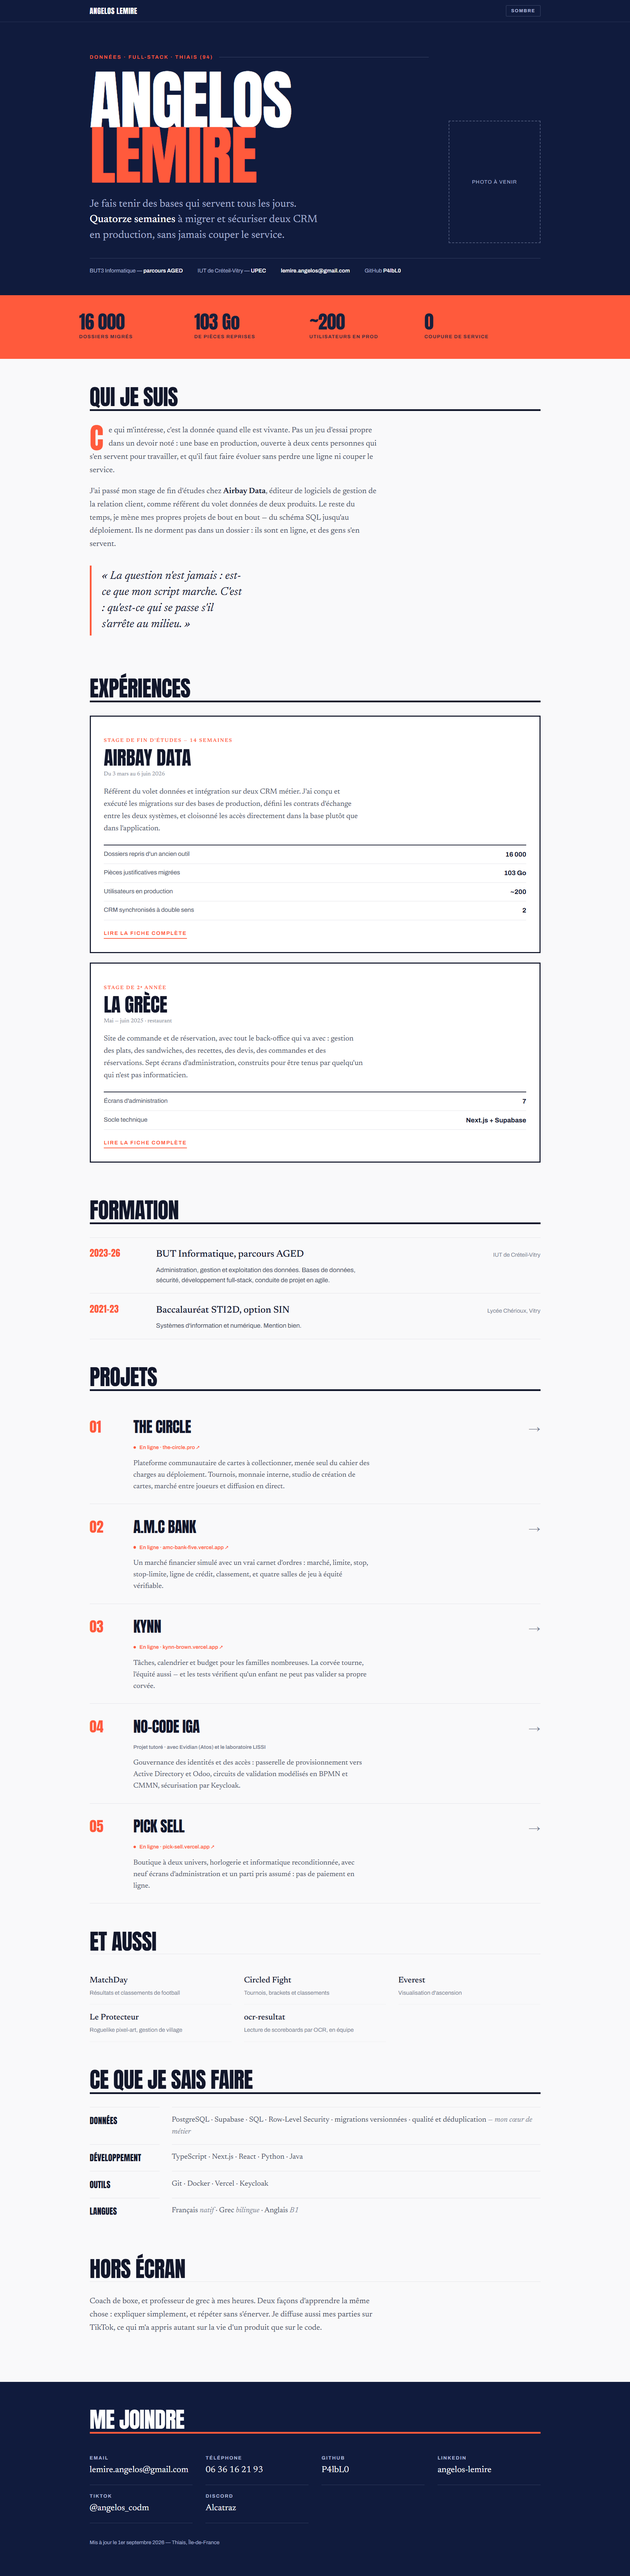
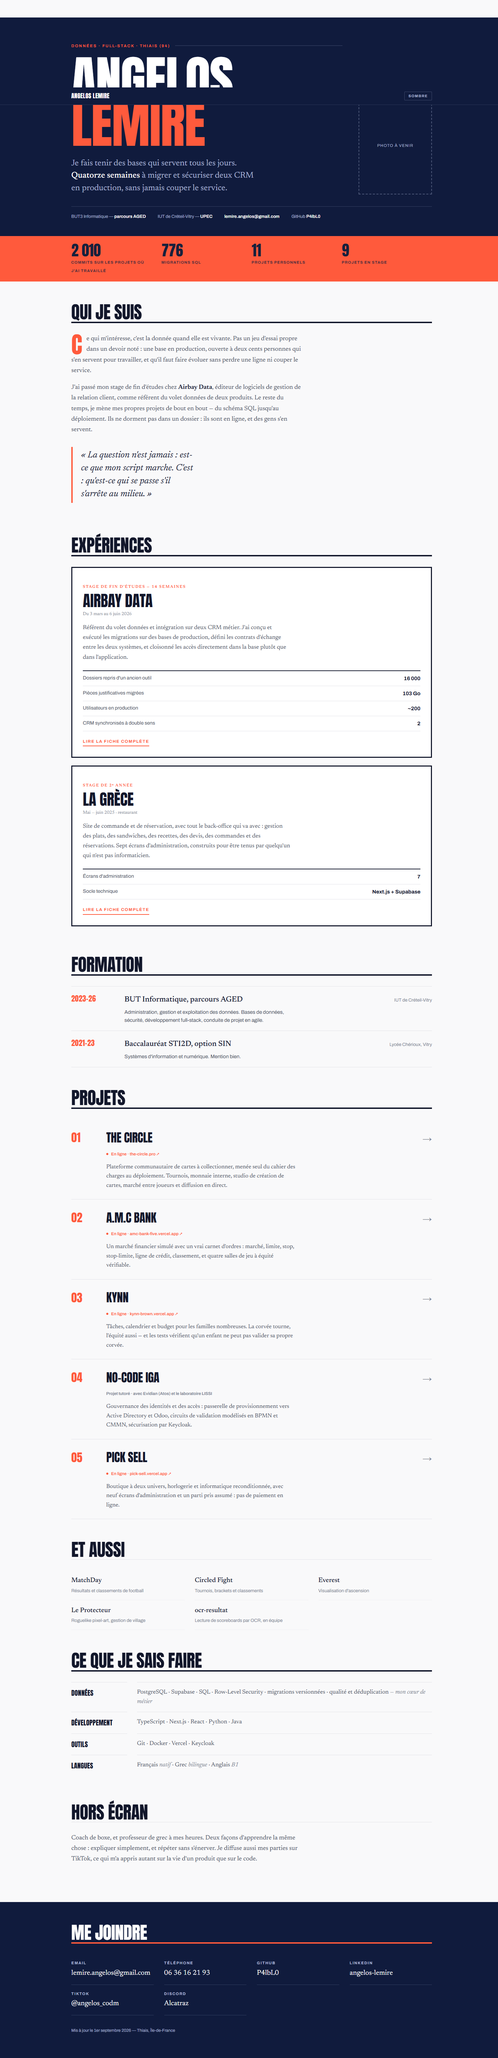
feat(accueil): le bilan couvre aussi le stage et les SAE
Le compte ne portait que sur Desktop/Projet. Les projets de stage et le
dossier SAE-IAM en etaient absents.

- 2 010 commits (1 173 personnels + 837 en stage et SAE) et 776 migrations
  SQL (310 + 466), releves depot par depot
- doublons ecartes du compte : ES-CRM - Copie, ES-CRM - Copie (2), alumnaiOG
- deux perimetres nommes : 11 projets personnels, 9 projets en stage
- le libelle dit "commits sur les projets ou j'ai travaille" et non
  "commits pousses" : le perimetre choisi inclut des commits signes de
  collegues, le chiffre reste vrai avec ce libelle
- methode de calcul et perimetre documentes dans content.ts et dans
  docs/CONTEXTE-SESSION.md, pour qu'ils ne soient pas "corriges" par erreur

diff --git a/lib/content.ts b/lib/content.ts
@@ -48,15 +48,25 @@ export const profil = {
   // La bande colorée sous la couverture : le bilan de TOUT le travail, pas
   // celui d'un projet en particulier (les chiffres du stage sont sur sa fiche).
   //
-  // Comment les remettre à jour, depuis Desktop/Projet :
-  //   commits    → git -C <dépôt> log --format='%an' | grep -ci p4lbl0, sur chaque dépôt
-  //   migrations → find <dépôt> -name '*.sql' | grep -i migration | wc -l
+  // Périmètre retenu, décidé le 01/09/2026 : TOUS les dépôts sur lesquels
+  // Angelos a travaillé, personnels comme professionnels — d'où le libellé
+  // « sur les projets où j'ai travaillé » et non « commits poussés ». Une
+  // partie de ces commits est signée de collègues ; le compte les inclut
+  // volontairement. Ne pas « corriger » ce chiffre sans lui demander.
+  //
+  //   commits    : 1 173 personnels + 837 en stage et SAÉ
+  //   migrations : 310 personnelles + 466 en stage
+  //
+  // Comment les recalculer, depuis Desktop :
+  //   git -C <dépôt> rev-list --count HEAD
+  //   find <dépôt> -name '*.sql' | grep -i migration | wc -l
+  // Doublons à exclure : « ES-CRM - Copie », « ES-CRM - Copie (2) », « alumnaiOG ».
   // Dernier relevé : 1er septembre 2026.
   chiffres: [
-    { valeur: "1 152", label: "commits poussés" },
-    { valeur: "310", label: "migrations SQL" },
-    { valeur: "11", label: "projets menés" },
-    { valeur: "7", label: "en ligne aujourd'hui" },
+    { valeur: "2 010", label: "commits sur les projets où j'ai travaillé" },
+    { valeur: "776", label: "migrations SQL" },
+    { valeur: "11", label: "projets personnels" },
+    { valeur: "9", label: "projets en stage" },
   ] satisfies Fait[],
 
   presentation: [

diff --git a/docs/CONTEXTE-SESSION.md b/docs/CONTEXTE-SESSION.md
@@ -149,17 +149,28 @@ balises.
 ### Les chiffres globaux de la page d'accueil
 
 La bande corail de l'accueil montre le bilan de **tout** son travail, pas d'un
-projet. Relevé le 1er septembre 2026 : **1 152 commits**, **310 migrations
-SQL**, **11 projets menés**, **7 en ligne**. Pour les recalculer, depuis
-`Desktop\Projet` :
+projet. Relevé le 1er septembre 2026 : **2 010 commits**, **776 migrations
+SQL**, **11 projets personnels**, **9 projets en stage**.
+
+**Périmètre décidé par Angelos, en connaissance de cause :** tous les dépôts sur
+lesquels il a travaillé, personnels (`Desktop\Projet`, plus `la-grece` en
+distant) comme professionnels (`Desktop\STAGE`, `Desktop\SAE-IAM`). Une partie
+de ces commits est signée de collègues — Raphael Bensamoun et Vincent Couturier.
+Il a été averti et a choisi de les inclure. C'est pour cette raison que le
+libellé dit « commits **sur les projets où j'ai travaillé** » et non « commits
+poussés ». **Ne pas « corriger » ce chiffre ni ce libellé sans le lui demander.**
+
+Répartition : 1 173 commits personnels + 837 en stage et SAÉ ; 310 migrations
+personnelles + 466 en stage. Pour recalculer, depuis `Desktop` :
 
 ```bash
-# commits qui sont bien les siens (ocr-resultat est collaboratif)
-git -C <dépôt> log --format='%an|%ae' | grep -ciE "p4lbl0|angelos|lemire"
-
-# migrations SQL
+git -C <dépôt> rev-list --count HEAD
 find <dépôt> -name '*.sql' | grep -i migration | wc -l
 ```
+
+Doublons à exclure du compte : `ES-CRM - Copie`, `ES-CRM - Copie (2)`,
+`alumnaiOG`. Le dossier `E3S-CRM` n'a pas de dépôt git : ses 209 migrations sont
+comptées sur la foi d'Angelos, qui était référent données sur ce périmètre.
 
 ---
 
